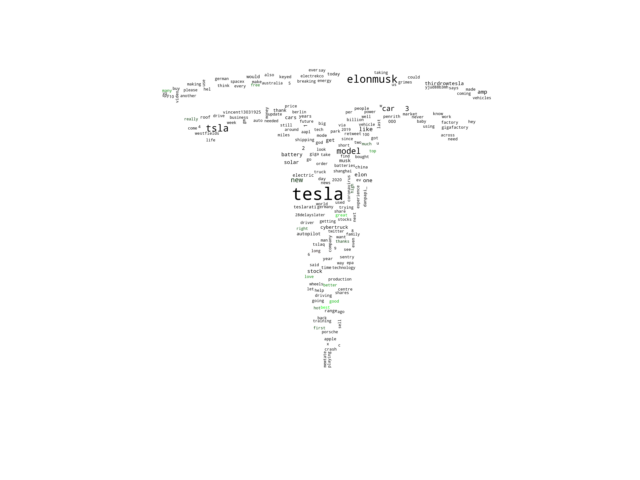
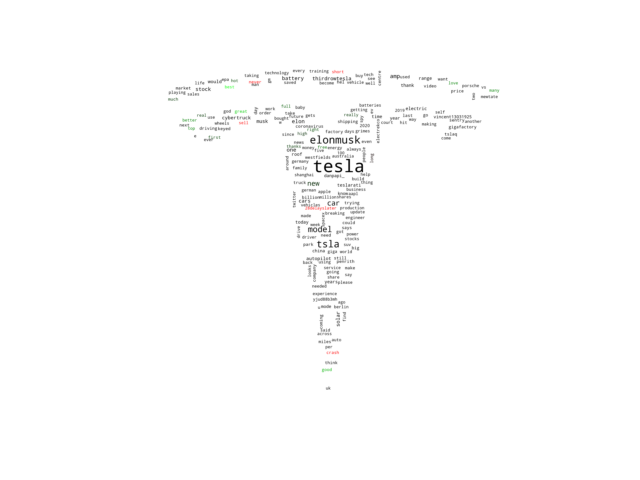
Interesting Architecture

Changed region(s): [[0.25, 0.125, 0.7812, 0.7812]]

diff --git a/python_scripts/rnn_model.py b/python_scripts/rnn_model.py
@@ -4,6 +4,7 @@ import sqlite3
 import pandas as pd
 import matplotlib.pyplot as plt
 import seaborn as sns
+import csv 
 
 sns.set()
 
@@ -13,39 +14,47 @@ class Stock_RNN(tf.keras.Model):
     def __init__(self, batch_size):
         super(Stock_RNN, self).__init__()
 
-        self.optimizer = tf.keras.optimizers.Adam(learning_rate = 0.0001, beta_1=0, beta_2=0.9) # Optimizer
+        self.optimizer = tf.keras.optimizers.Adam(learning_rate = 0.0001, beta_1=0.5, beta_2=0.9) # Optimizer
         self.batch_size = batch_size # Take one day's worth of data at a time
         self.model = tf.keras.Sequential()
         
-        # self.model.add(tf.keras.layers.LSTM(128, return_sequences=True)) # LSTM layer
-        # self.model.add(tf.keras.layers.Dropout(0.2))
-        # self.model.add(tf.keras.layers.LSTM(128, return_sequences=True)) # LSTM layer
-        # self.model.add(tf.keras.layers.Dropout(0.2))
+        # self.model.add(tf.keras.layers.LSTM(20, return_sequences=True)) # LSTM layer
+        # self.model.add(tf.keras.layers.Dropout(0.4))
+
+        # self.model.add(tf.keras.layers.LSTM(20, return_sequences=True)) # LSTM layer
+        # self.model.add(tf.keras.layers.Dropout(0.4))
+
         # self.model.add(tf.keras.layers.Flatten())
-        # self.model.add(tf.keras.layers.Dense(100, use_bias=True, activation='relu')) # Dense layer
         # self.model.add(tf.keras.layers.Dense(128, use_bias=True, activation='relu'))
-        # self.model.add(tf.keras.layers.Dropout(0.2))
-        # self.model.add(tf.keras.layers.Dense(16, use_bias=True, kernel_initializer='uniform', activation='relu')) # Dense layer
-        # self.model.add(tf.keras.layers.Dense(1, use_bias=True, kernel_initializer='uniform')) # Dense layer
+        # # self.model.add(tf.keras.layers.Dropout(0.2))
+        # # self.model.add(tf.keras.layers.Dense(256, use_bias=True, activation='relu')) # Dense layer
+        # # self.model.add(tf.keras.layers.Dropout(0.2))
+        # self.model.add(tf.keras.layers.Dense(1, use_bias=True)) # Dense layer
         
         # Convolutional Layers
-        self.model.add(tf.keras.layers.Conv2D(16, 2, padding='same', activation='relu'))
-        self.model.add(tf.keras.layers.Dropout(0.2))
+        self.model.add(tf.keras.layers.Conv2D(100, 2, padding='same', activation='relu'))
+        self.model.add(tf.keras.layers.Dropout(0.4))
+        self.model.add(tf.keras.layers.Conv2D(200, 2, padding='same', activation='relu'))
+        self.model.add(tf.keras.layers.Dropout(0.4))
+        self.model.add(tf.keras.layers.Conv2D(300, 2, padding='same', activation='relu'))
+        self.model.add(tf.keras.layers.AveragePooling2D(pool_size = 2))
 
-        self.model.add(tf.keras.layers.Conv2D(32, 2, strides=(2,2), padding='same', activation='relu'))
-        self.model.add(tf.keras.layers.Dropout(0.2))
+        # self.model.add(tf.keras.layers.Conv2D(256, 2, strides=(2,2), padding='same', activation='relu'))
+        # self.model.add(tf.keras.layers.Dropout(0.2))
 
-        self.model.add(tf.keras.layers.Conv2D(64, 2, strides=(2,2), padding='same', activation='relu'))
-        self.model.add(tf.keras.layers.Dropout(0.2))
-
-        self.model.add(tf.keras.layers.Conv2D(128, 2, strides=(2,2), padding='same', activation='relu'))
-        self.model.add(tf.keras.layers.Dropout(0.2))
+        # self.model.add(tf.keras.layers.Conv2D(512, 2, strides=(2,2), padding='same', activation='relu'))
+        # self.model.add(tf.keras.layers.Dropout(0.2))
 
         # Head
         self.model.add(tf.keras.layers.Flatten())
-        self.model.add(tf.keras.layers.Dense(100, use_bias=True, activation='relu')) # Dense layer
+        self.model.add(tf.keras.layers.Dense(64, use_bias=True, activation='relu')) # Dense layer
         self.model.add(tf.keras.layers.Dropout(0.2))
-        self.model.add(tf.keras.layers.Dense(100, use_bias=True, activation='relu'))
+        self.model.add(tf.keras.layers.Dense(128, use_bias=True, activation='relu'))
+        self.model.add(tf.keras.layers.Dropout(0.2))
+        self.model.add(tf.keras.layers.Dense(256, use_bias=True, activation='relu'))
+        self.model.add(tf.keras.layers.Dropout(0.2))
+        self.model.add(tf.keras.layers.Dense(512, use_bias=True, activation='relu'))
+        self.model.add(tf.keras.layers.Dropout(0.2))
         self.model.add(tf.keras.layers.Dense(1, use_bias=True)) # Dense layer
         
     @tf.function
@@ -72,8 +81,6 @@ def train(model, train_data, train_prices, test_data, test_prices, num_epochs):
             with tf.GradientTape() as tape:
                 predictions = model.call(train_data[current_batch_number:current_batch_number+model.batch_size]) # Get the probabilities for each batch
                 loss = model.loss_function(predictions,train_prices[current_batch_number:current_batch_number+model.batch_size]) # Gets the loss
-                
-                
                 # Gets the gradients for this batch
                 gradients = tape.gradient(loss, model.trainable_variables)
                 model.optimizer.apply_gradients(zip(gradients, model.trainable_variables)) # Does gradient descent
@@ -83,8 +90,8 @@ def train(model, train_data, train_prices, test_data, test_prices, num_epochs):
         print("Current Train MSE on epoch",current_epoch,":",model.accuracy_function(train_predictions, train_prices))
         print("Current Test MSE on epoch",current_epoch,":",model.accuracy_function(test_predictions, test_prices))
 
-        # TODO: Lowest so far I have found is 426
-        if model.accuracy_function(test_predictions, test_prices) < 410:
+        # TODO: Lowest so far I have found is 94
+        if model.accuracy_function(test_predictions, test_prices) < 50:
             break
         current_epoch += 1
     pass
@@ -135,8 +142,8 @@ def get_data(test_prob=0.2):
     test_prices = y[split_point:]
 
     # If want to use without the twitter data for BASELINE MODEL
-    #X_train_no_twit = X_train["Open", "High", "Low", "Close", "Adj Close", "Volume"]
-    #X_test_no_twit = X_test["Open", "High", "Low", "Close", "Adj Close", "Volume"]
+    train_data = train_data[["Open", "High", "Low", "Close", "Adj Close", "Volume"]]
+    test_data = test_data[["Open", "High", "Low", "Close", "Adj Close", "Volume"]]
 
     # Convert out of dataframes for use in numpy
     train_data = train_data.to_numpy().astype(np.float32)
@@ -173,10 +180,10 @@ def preprocess(train_data, test_data, train_prices, test_prices, window_size):
     return slidingWindow(train_data,window_size), sliding_window_test(test_data, train_data, window_size), train_prices[window_size-1:], test_prices
     
 if __name__=="__main__":
-    BATCH_SIZE = 12
+    BATCH_SIZE = 3
     TEST_PROB = 0.2
-    NUM_EPOCHS = 3000
-    WINDOW_SIZE = 16
+    NUM_EPOCHS = 4000
+    WINDOW_SIZE = 3
 
     rnn = Stock_RNN(BATCH_SIZE)
     train_data, test_data, train_prices, test_prices = get_data(TEST_PROB)
@@ -186,13 +193,16 @@ if __name__=="__main__":
     print(np.shape(test_data))
     print(np.shape(train_prices))
     print(np.shape(test_prices))
-    #train_data, train_prices = np.arange(441).reshape((441,1)).astype(np.float32), np.arange(441).reshape((441,1)).astype(np.float32)
     train(rnn, train_data, train_prices, test_data, test_prices, NUM_EPOCHS)
     test(rnn, test_data, test_prices)
     real = plt.plot(test_prices, label='real')
     pred = plt.plot(rnn(test_data), label='predicted')
+    print(rnn(test_data))
+
+
+
+
     
     plt.legend(['Real', 'Predicted'])
-    
     plt.show()
     

diff --git a/python_scripts/rnn_keras.py b/python_scripts/rnn_keras.py
@@ -1,0 +1,130 @@
+import numpy as np
+import sqlite3
+import pandas as pd
+import matplotlib.pyplot as plt
+import seaborn as sns
+from preprocess import Preprocess
+
+from keras.models import Sequential
+from keras.layers import LSTM, Dense, Flatten, Dropout
+from keras.optimizers import Adam 
+
+def get_data(test_prob=0.2):
+    # Parsing actual data that we will use
+    STOCK_DATABASE_PATH = "../data/stock_data.db"
+    RNN_DATABASE_PATH = "../data/rnn_data.db"
+    x = Preprocess(STOCK_DATABASE_PATH, RNN_DATABASE_PATH)
+    numpy_data, df_data, numpy_vanilla_rnn_data, df_vanilla_rnn_data = x.get_data()
+
+    X = df_data[["Open", "High", "Low", "Close", "Adj Close", "Volume", "Twitter Score"]]
+
+    # Shift to get the previous data as next time step X
+    X[["Open", "High", "Low", "Close", "Adj Close", "Volume"]] = X[["Open", "High", "Low", "Close", "Adj Close", "Volume"]].shift(-1)
+    y =  df_data["Close"]
+
+    # Remove last step that now has a NaN in shifted values
+    X = X[:-1]
+    y = y[:-1]
+
+    # Manually make test_size last 20 percent
+    dataset_size = len(X)
+    train_prob = 1 - test_prob
+    split_point = int(np.round(dataset_size * train_prob))
+
+    train_data = X.iloc[:split_point,:]
+    test_data = X.iloc[split_point:, :]
+    train_prices = y[:split_point]
+    test_prices = y[split_point:]
+
+    # If want to use without the twitter data for BASELINE MODEL
+    #X_train_no_twit = X_train["Open", "High", "Low", "Close", "Adj Close", "Volume"]
+    #X_test_no_twit = X_test["Open", "High", "Low", "Close", "Adj Close", "Volume"]
+
+    # Convert out of dataframes for use in numpy
+    train_data = train_data.to_numpy().astype(np.float32)
+    test_data = test_data.to_numpy().astype(np.float32)
+    train_prices = train_prices.to_numpy().astype(np.float32)
+    test_prices = test_prices.to_numpy().astype(np.float32)
+
+
+    return train_data, test_data, train_prices, test_prices
+
+def slidingWindow(array, window_size):
+    windowed_array = []
+    for i in range(0, np.shape(array)[0]-window_size+1):
+        window = array[i:i+window_size]
+        windowed_array.append(window)
+    return np.array(windowed_array)
+
+def sliding_window_test(arr, train_data, window_size):
+    # Grab window size - 1 from the end of the training set 
+    start = train_data.shape[0] - (window_size - 1) 
+    end_of_training = train_data[start:, :]
+    stacked = np.vstack([end_of_training, arr])
+
+    # Do the same thing as sliding window 
+    arr = slidingWindow(stacked, window_size)
+    return arr
+    
+
+def preprocess(train_data, test_data, train_prices, test_prices, window_size):
+    # FIXME: This is the previous implementation if you want to run on other data
+    #return slidingWindow(train_data,window_size), slidingWindow(test_data, window_size), train_prices[window_size-1:], test_prices[window_size-1:]
+
+    # New one that uses the twitter data
+    return slidingWindow(train_data,window_size), sliding_window_test(test_data, train_data, window_size), train_prices[window_size-1:], test_prices
+    
+
+if __name__=="__main__":
+    BATCH_SIZE = 1
+    TEST_PROB = 0.2
+    NUM_EPOCHS = 100
+    WINDOW_SIZE = 5
+    num_cols = 7
+    EPOCHS = 10
+
+    # Load in the data
+    train_data, test_data, train_prices, test_prices = get_data(TEST_PROB)
+    train_data, test_data, train_prices, test_prices = preprocess(train_data, test_data, train_prices, test_prices, WINDOW_SIZE)
+    print(np.shape(train_data))
+    print(np.shape(test_data))
+    print(np.shape(train_prices))
+    print(np.shape(test_prices))
+
+
+    # Create keras RNN model
+    optimizer = Adam(learning_rate=0.0001, beta_1=0.5, beta_2=0.999, amsgrad=False)
+
+    rnn = Sequential()
+    rnn.add(LSTM(20, batch_input_shape=(BATCH_SIZE, WINDOW_SIZE, num_cols), return_sequences=True))
+    rnn.add(Dropout(0.2))
+    rnn.add(LSTM(20, return_sequences=True))
+    rnn.add(Dropout(0.2))
+    rnn.add(LSTM(20, return_sequences=True))
+    rnn.add(Flatten())
+    # rnn.add(Dense(64))
+    # rnn.add(Dropout(0.2))
+    # rnn.add(Dense(128))
+    # rnn.add(Dropout(0.2))
+    # rnn.add(Dense(256))
+    # rnn.add(Dropout(0.2))
+    # rnn.add(Dense(512))
+    # rnn.add(Dropout(0.2))
+    rnn.add(Dense(1))
+
+    # Compile keras model
+    rnn.compile(optimizer=optimizer, loss='mse')
+    rnn.fit(train_data, train_prices, epochs=EPOCHS, validation_data=(test_data, test_prices), batch_size=BATCH_SIZE, shuffle=False, verbose=2)
+    rnn.summary()
+
+    # Evaluate how well the rnn did
+    predictions = rnn.predict(test_data, batch_size=1)
+    print(predictions)
+    print(predictions.shape)
+
+    plt.plot(test_prices)
+    plt.plot(predictions)
+    plt.show()
+
+
+

diff --git a/python_scripts/wordcloud_tesla.py b/python_scripts/wordcloud_tesla.py
@@ -82,7 +82,7 @@ print("Counts Dictionary Finished")
 def color_func(word, font_size, position, orientation, random_state=None, **kwargs):
 	blob = TextBlob(word)
 	polarity = blob.sentiment.polarity
-	bad_words = ["short", "crash", "28delayslater","sell", "never"]
+	bad_words = ["short", "crash","sell", "never"]
 	good_words = ["long", "buy"]
 	# Negative sentiment
 	if polarity < 0 or (word in bad_words):
@@ -94,7 +94,7 @@ def color_func(word, font_size, position, orientation, random_state=None, **kwar
 	elif (polarity > 0 or (word in good_words)):
 		# Green
 		value = int(np.round(np.abs(polarity) * 255))
-		if word in bad_words:
+		if word in good_words:
 			value = 255
 		color = "rgb(0,{},0)".format(value)
 	else:
